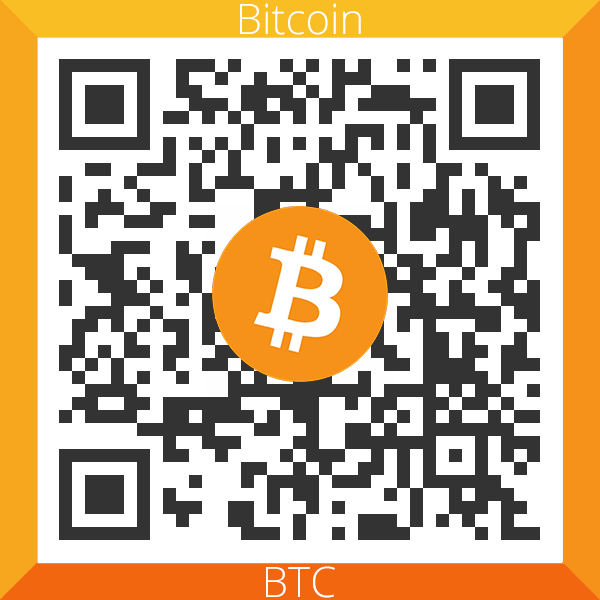
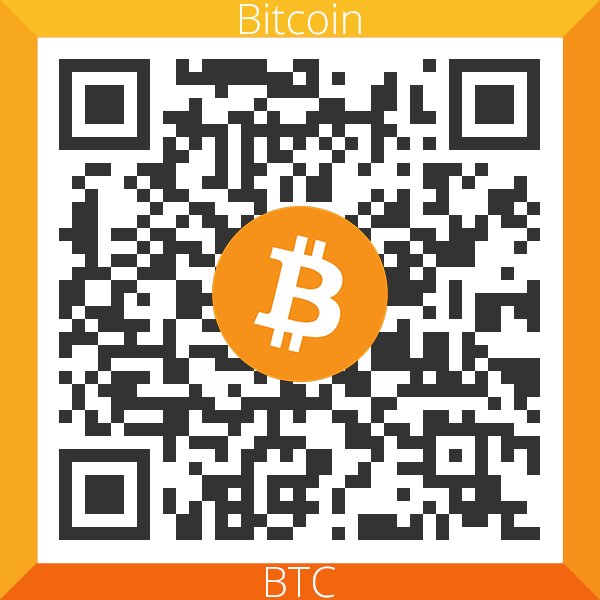
Update crypto addresses and add Dogecoin address

Changed region(s): [[0.09, 0.09, 0.9, 0.9], [0.78, 0.75, 0.9, 0.9]]

diff --git a/flaskApp/templates/pages/donate.html b/flaskApp/templates/pages/donate.html
@@ -36,29 +36,30 @@
   <textarea class="textarea" readonly onclick="this.select()">-----BEGIN PGP SIGNED MESSAGE-----
 Hash: SHA512
 
-Bitcoin: 1FREDE1o27gJ2pbBSq7jdKsTQJtbRw7yuB
-Bitcoin (SegWit): bc1qt9d49p3gz5yfwtyte3v8kr49upllk3t233vs7w
-Monero: 429U6JMXkhs94HmBH8oiJxgTDRZCRtUfVaq2kAPUpmn9P6vC2M8vjiHRVjJsxcacXkhANBeDYognpT4FDq4tDThn682sdVQ
-Ethereum: 0xdf2Cd69FB4DdF7a7A3f4a8FCADf4Df58948CD691
-Litecoin: ltc1qzmf9e5snzd79yh4g6h6y4q39nxm4jl77uprp8h
-Nano: nano_1ojj6pahqweigt1614z9ax1zqc4doig8dbe9tcqq9tqhtgtxsmwfyc3okpe1
+[BTC/XBT] Bitcoin: 1FREDE1o27gJ2pbBSq7jdKsTQJtbRw7yuB
+[BTC/XBT] Bitcoin (SegWit): bc1q33qap36zs2mg46e84n4rdc9pf7thggsufqghak
+[XMR] Monero: 89nE5g1LVJcJ52WECyjdAxejUhri6Dy88D2mHL6GK9Um5mETWHTVRxA3Xj9g9DLRYWHL6swFXtNKpHDznjhki3SBBJZNuSr
+[ETH] Ethereum: 0x2cf6A24F3269F3942Dc08Ca4EB8bb0C888802f8F
+[LTC] Litecoin: MAhqFRhkTEfSReWpZ4mQdiTNBMfo4zzzP3
+[NANO] Nano: nano_1ojj6pahqweigt1614z9ax1zqc4doig8dbe9tcqq9tqhtgtxsmwfyc3okpe1
+[DOGE] Dogecoin: DH89esKFDmA3GH2jDTwntUrwjVmyzN9hdB
 
 PayPal e-mail: frederikstroem@pm.me
 
 -----BEGIN PGP SIGNATURE-----
 
[11 lines of base64/hex data omitted]
-mj08cA7PjAPoQZ1fbWKfQSWOfv8FrVMitfByyj6YSYa+UCJMog==
-=OOtN
[11 lines of base64/hex data omitted]
+vOC5btuRwVQ3QLrrrfIU34OQalq0Xn30Z9J/v2zD6OD2IAWq4eQ=
+=ZRuC
 -----END PGP SIGNATURE-----</textarea>
 {% endblock %}
